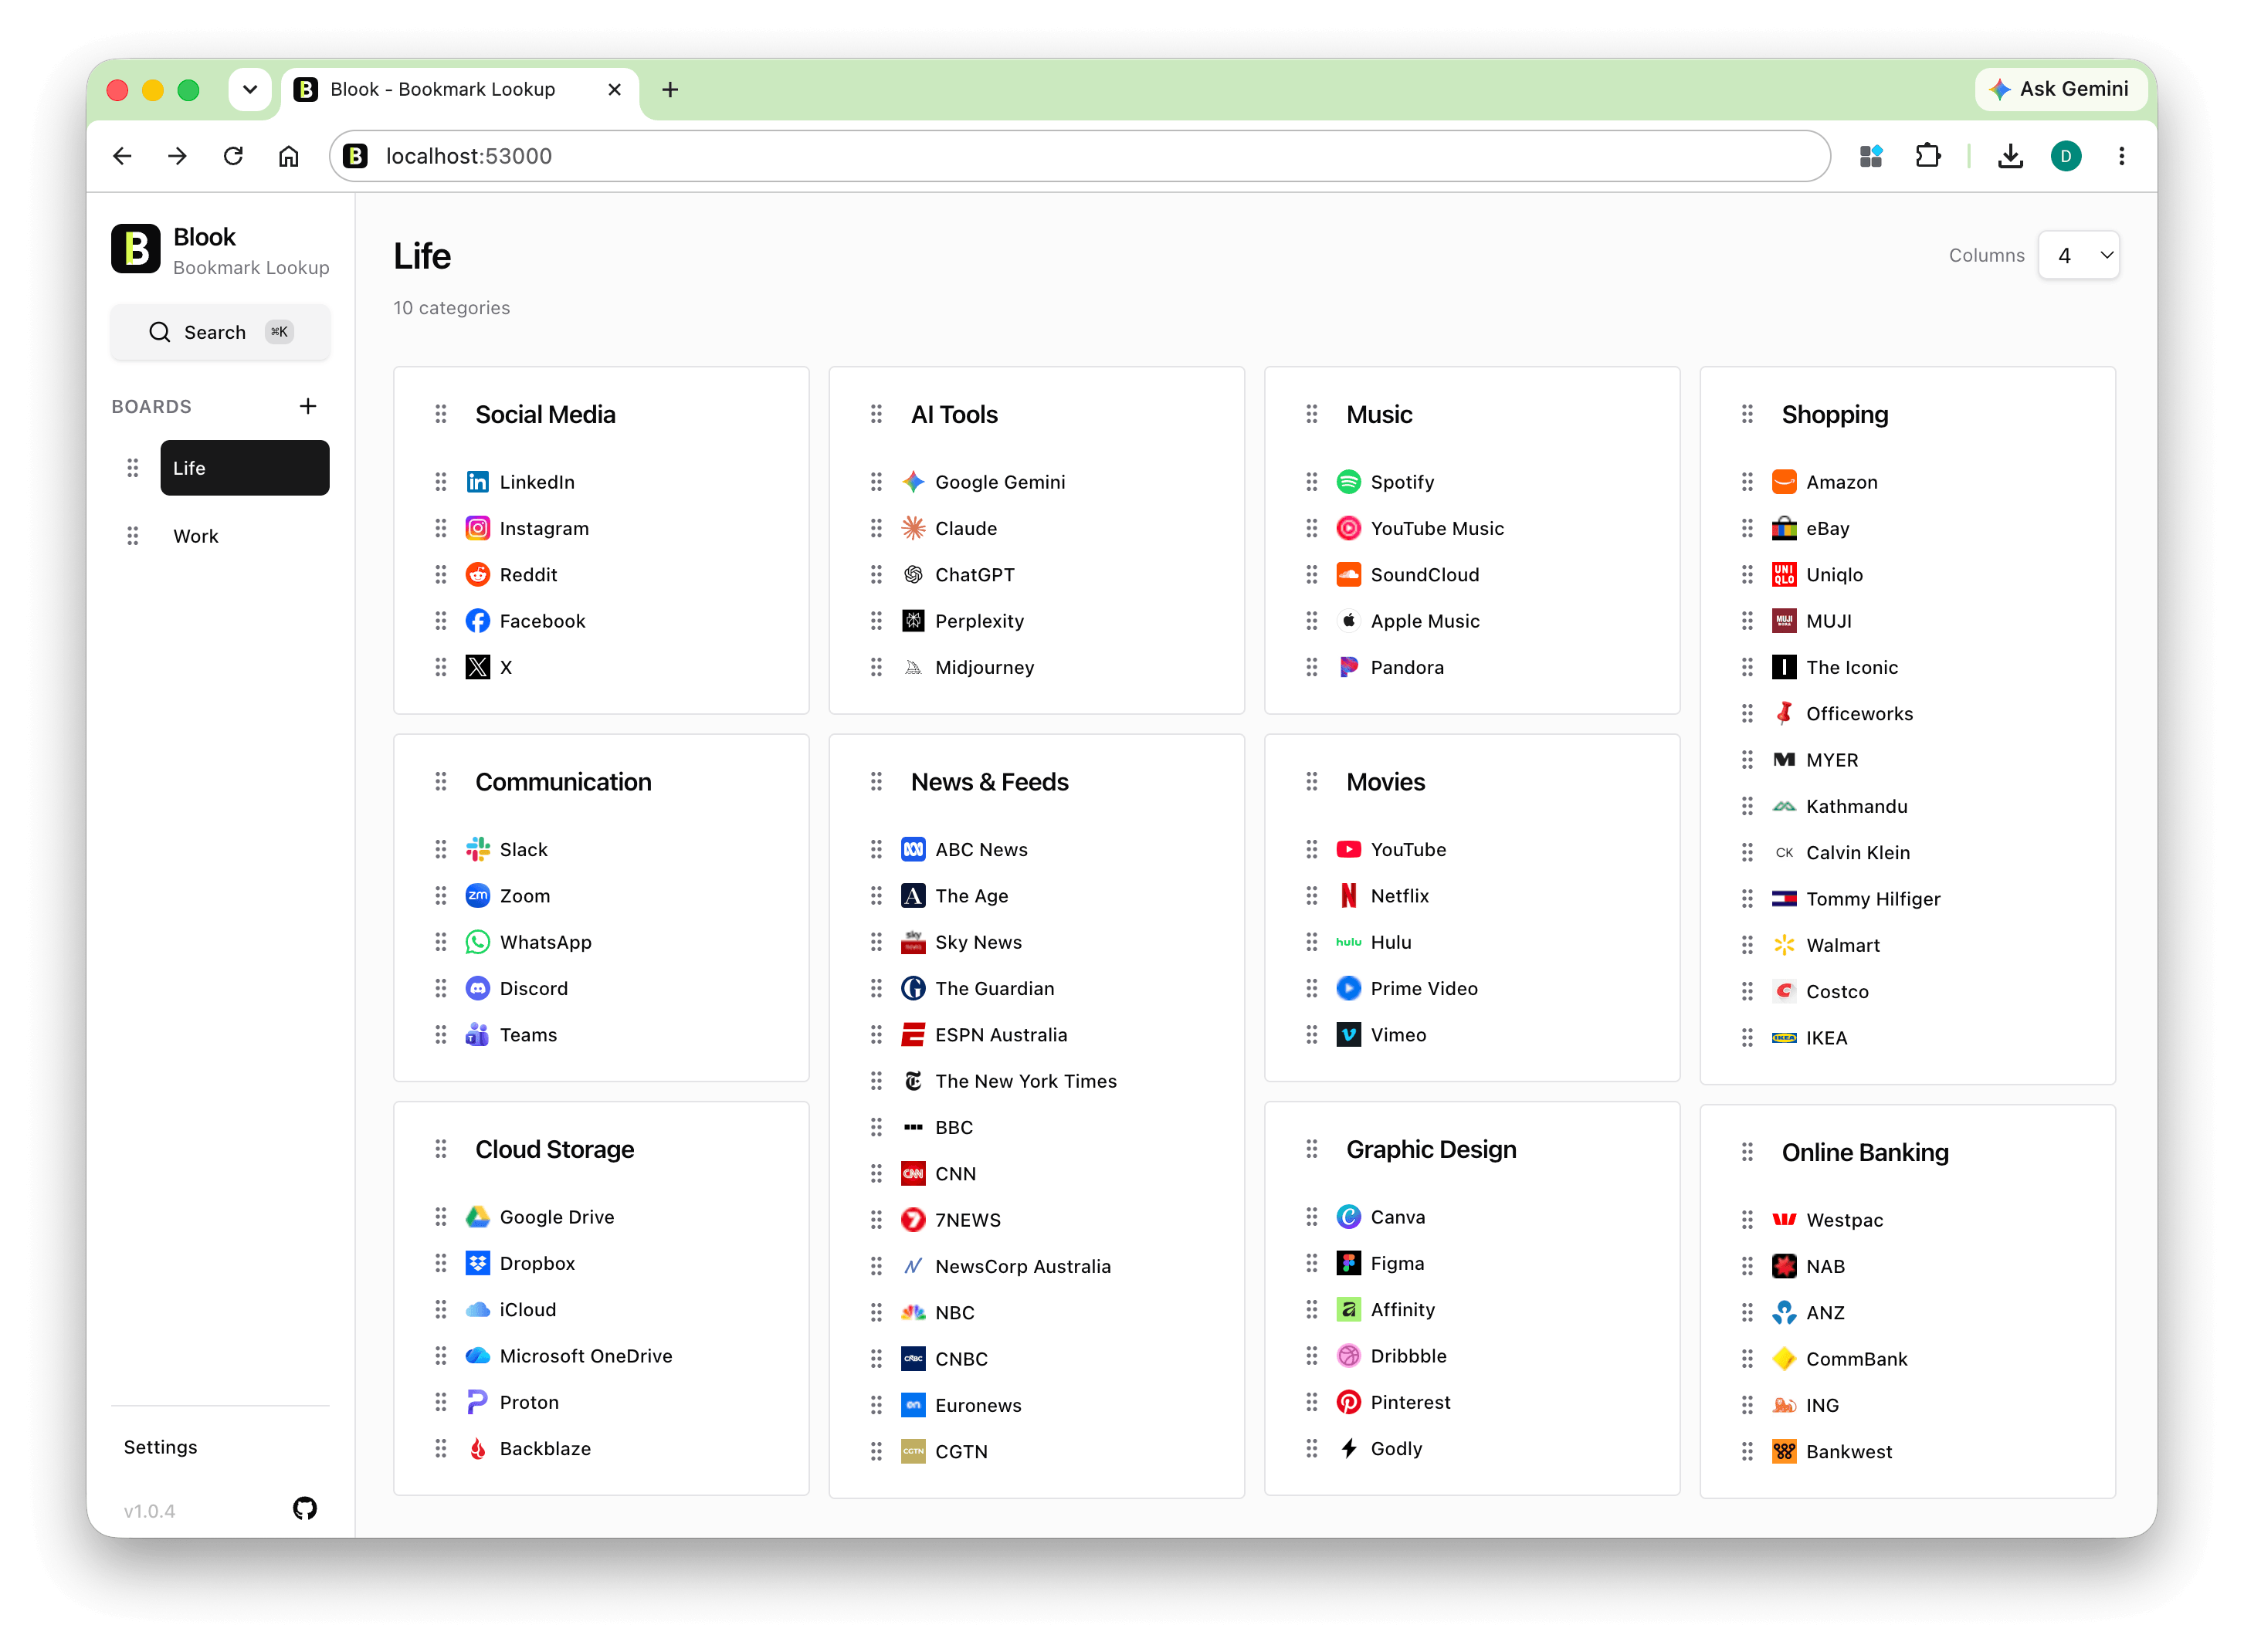
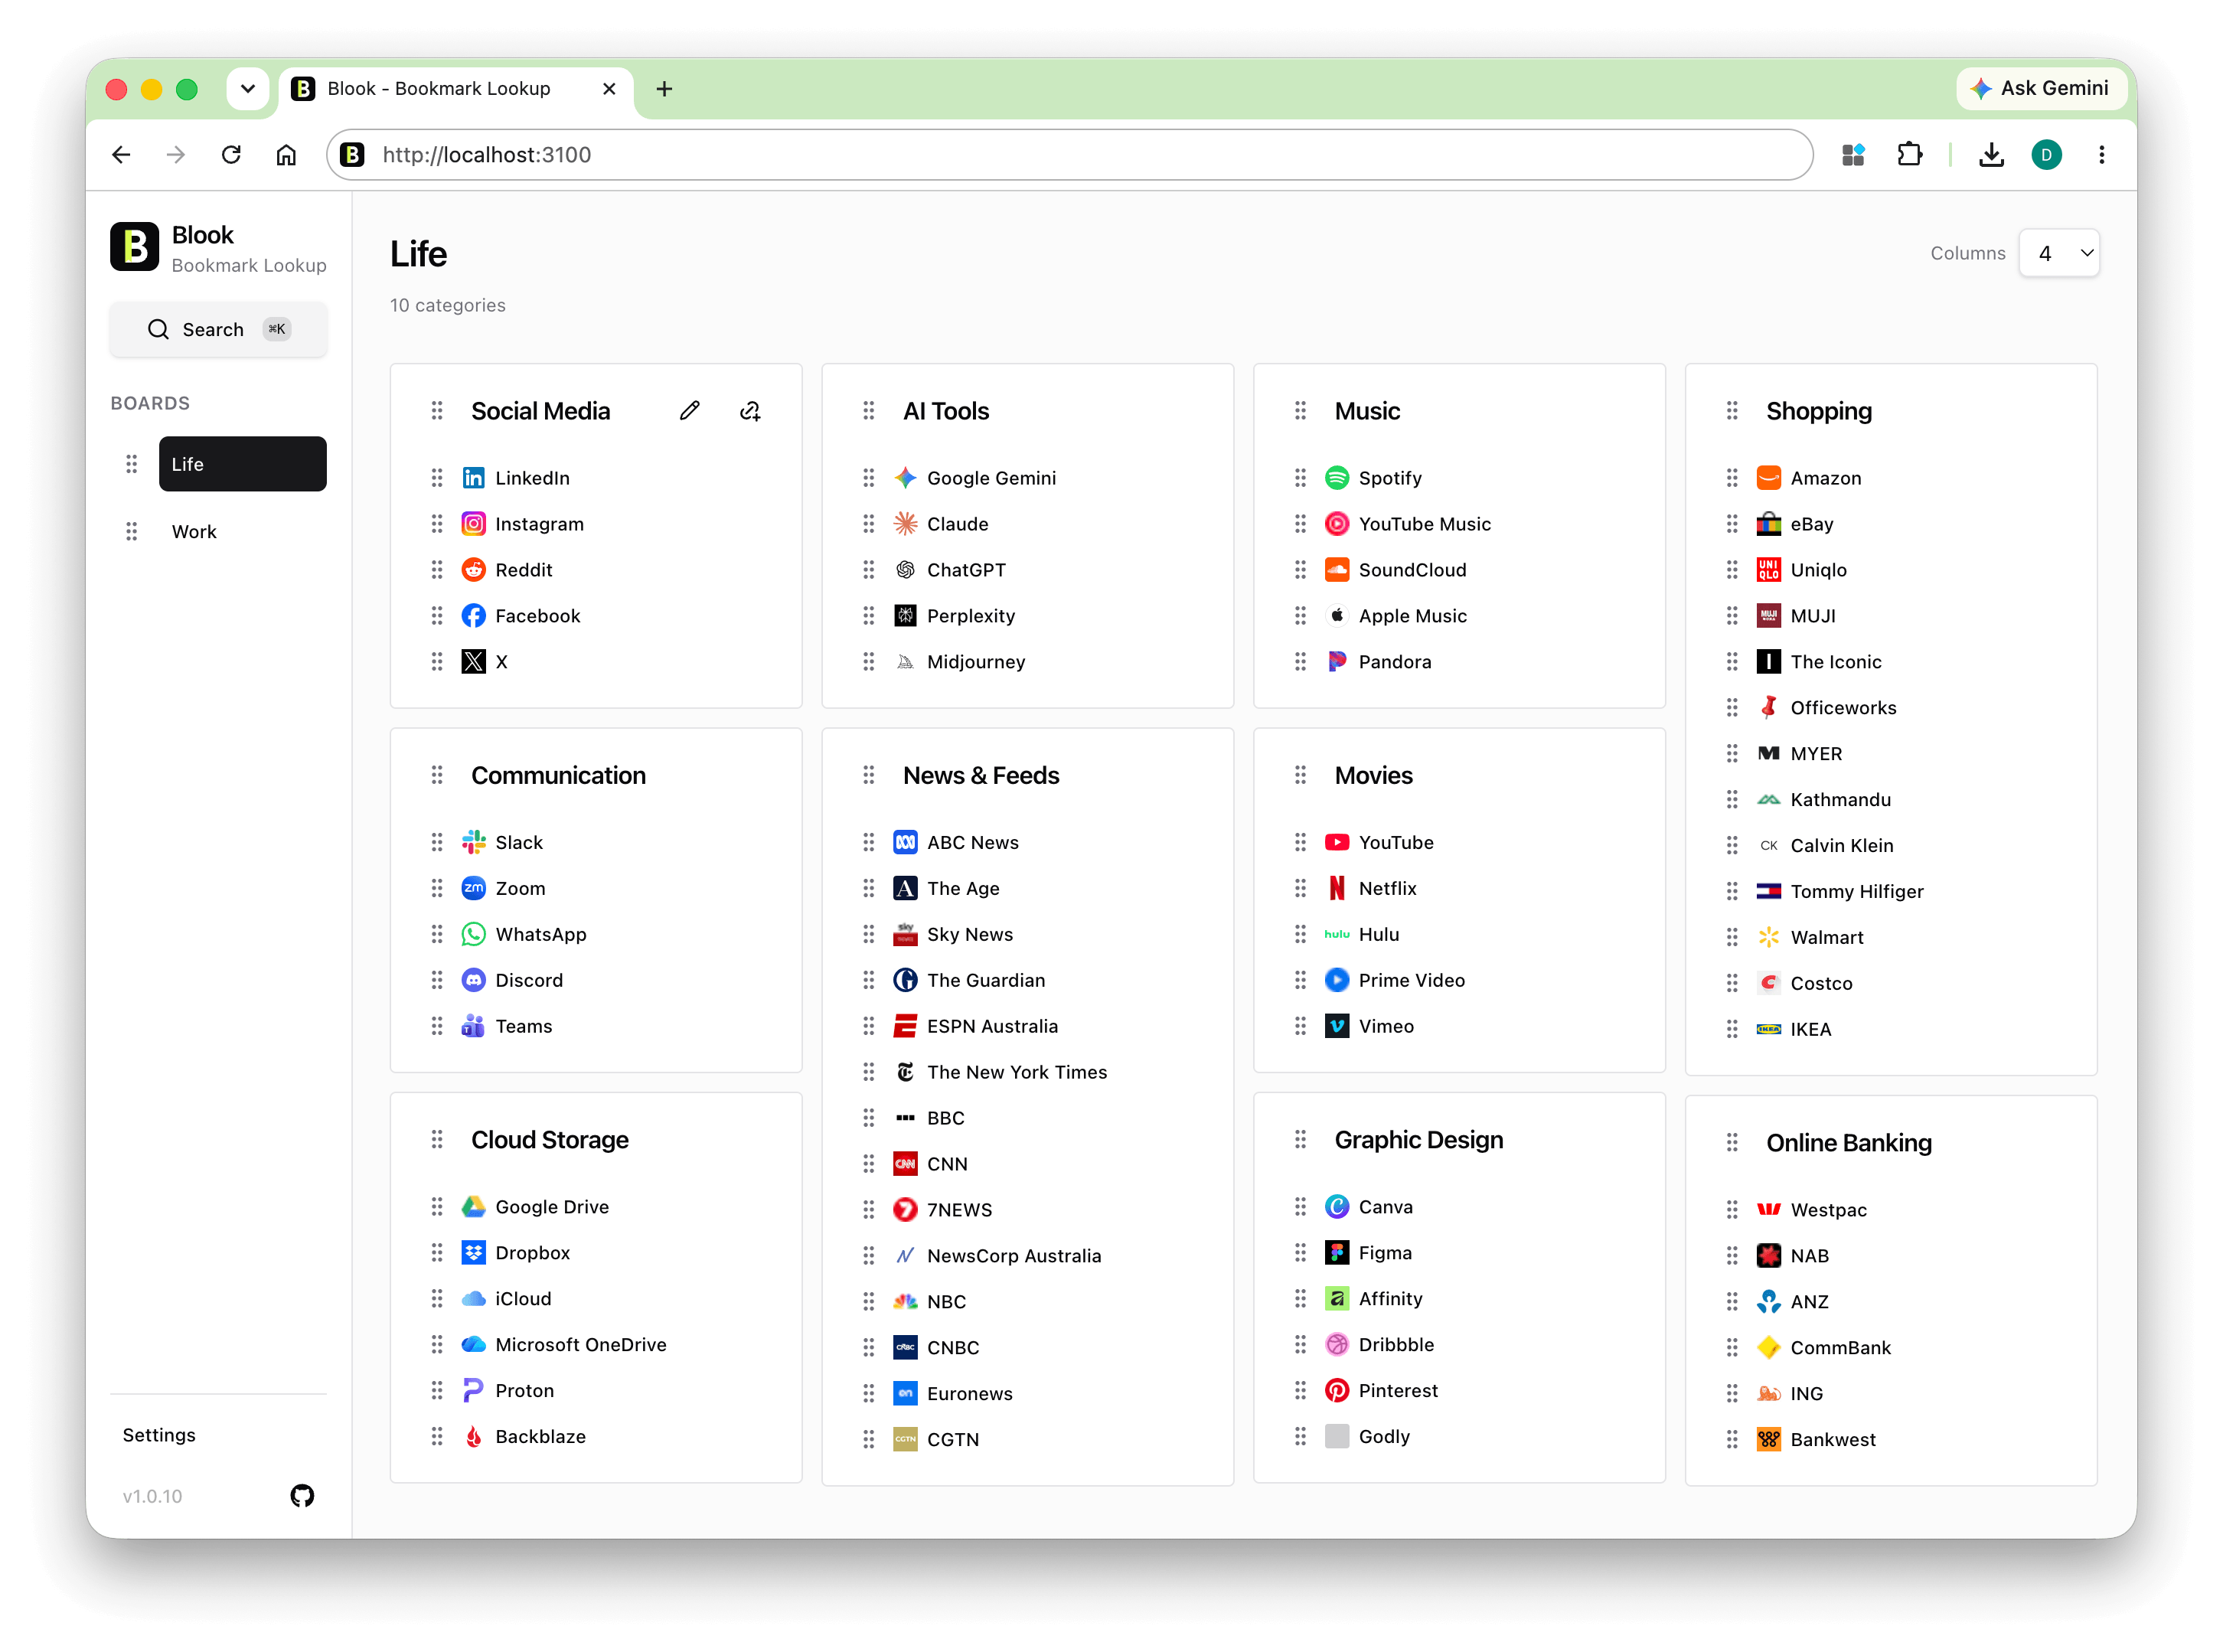
Updated readme and images

diff --git a/README.md b/README.md
@@ -1,1 +1,37 @@
-# blook-support
+# Blook — Customer Support Hub
+
+![Blook - Bookmark Lookup](https://raw.githubusercontent.com/dai530/blook-support/refs/heads/main/assets/blook-banner.png 'Blook - Bookmark Lookup')
+
+## Screenshot
+
+![Blook Screenshot](https://raw.githubusercontent.com/dai530/blook-support/refs/heads/main/assets/blook-screenshot.png 'Blook Screenshot')
+
+## Features
+
+- Minimalist layout focusing on a cleaner, better bookmark display
+- Drag-and-drop user interface for effortless management
+- Portable SQLite database – makes it easy to back up and synchronise through the cloud drive of your choice
+- Instant search via a global shortcut (Cmd + K on macOS, Ctrl + K on Windows)
+
+## Database
+
+When the app is initialised for the first time, it automatically generates a SQLite database file in the following default directory depending on your system:
+
+- **macOS**: `/Users/<Username>/Library/Application Support/Blook/blook.db`
+- **Windows**: `C:\Users\<Username>\AppData\Local\Blook\data.db`
+
+If you want to access the same database across multiple computers, you can sync it using a cloud storage provider (e.g., iCloud, OneDrive, Dropbox):
+
+1. Back up your existing `blook.db` file to your preferred cloud drive folder.
+2. Go to the `Settings` page within the app.
+3. Update the database path to point to the new location on your cloud drive.
+
+## Feedback and Contributions
+
+If you encounter any issues, want to request a feature, or have general feedback, please head over to the [Issues](https://github.com/dai530/blook/issues) page of this repository.
+
+To help keep things organised, please apply the appropriate tag when creating a new issue.
+
+- `bug` – For reporting unintended behavior or errors in the app.
+- `enhancement` – For proposing new features, UI tweaks, or functionality upgrades.
+- `question` / `feedback` – For asking questions or sharing thoughts on how to improve Blook.